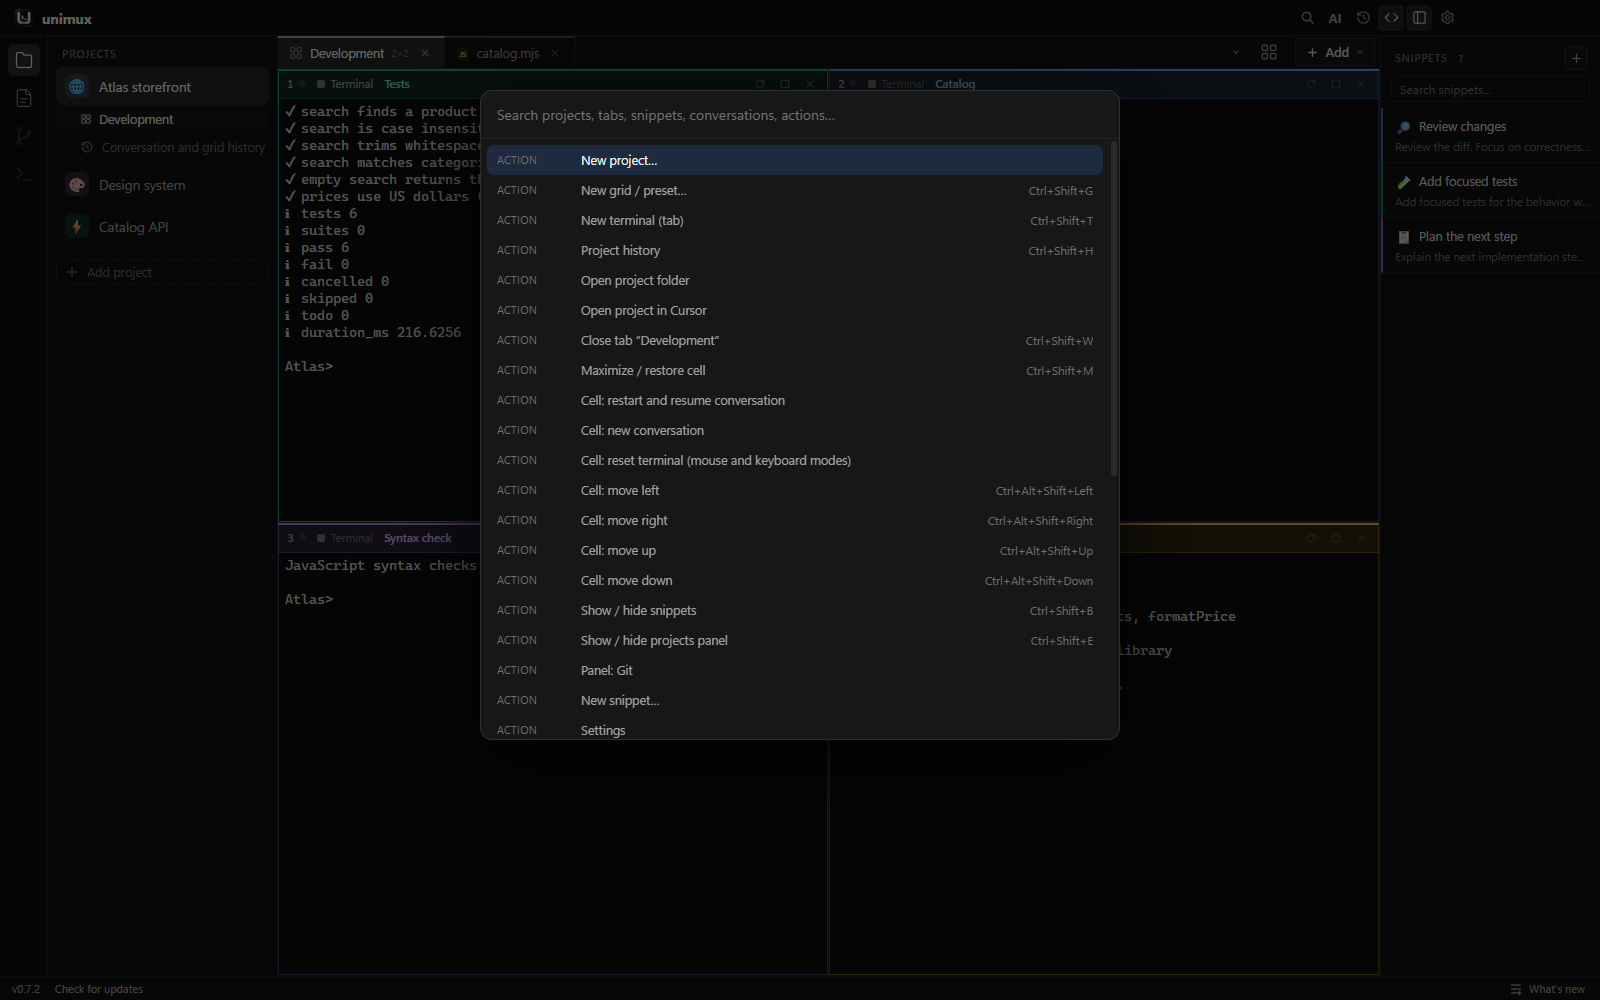
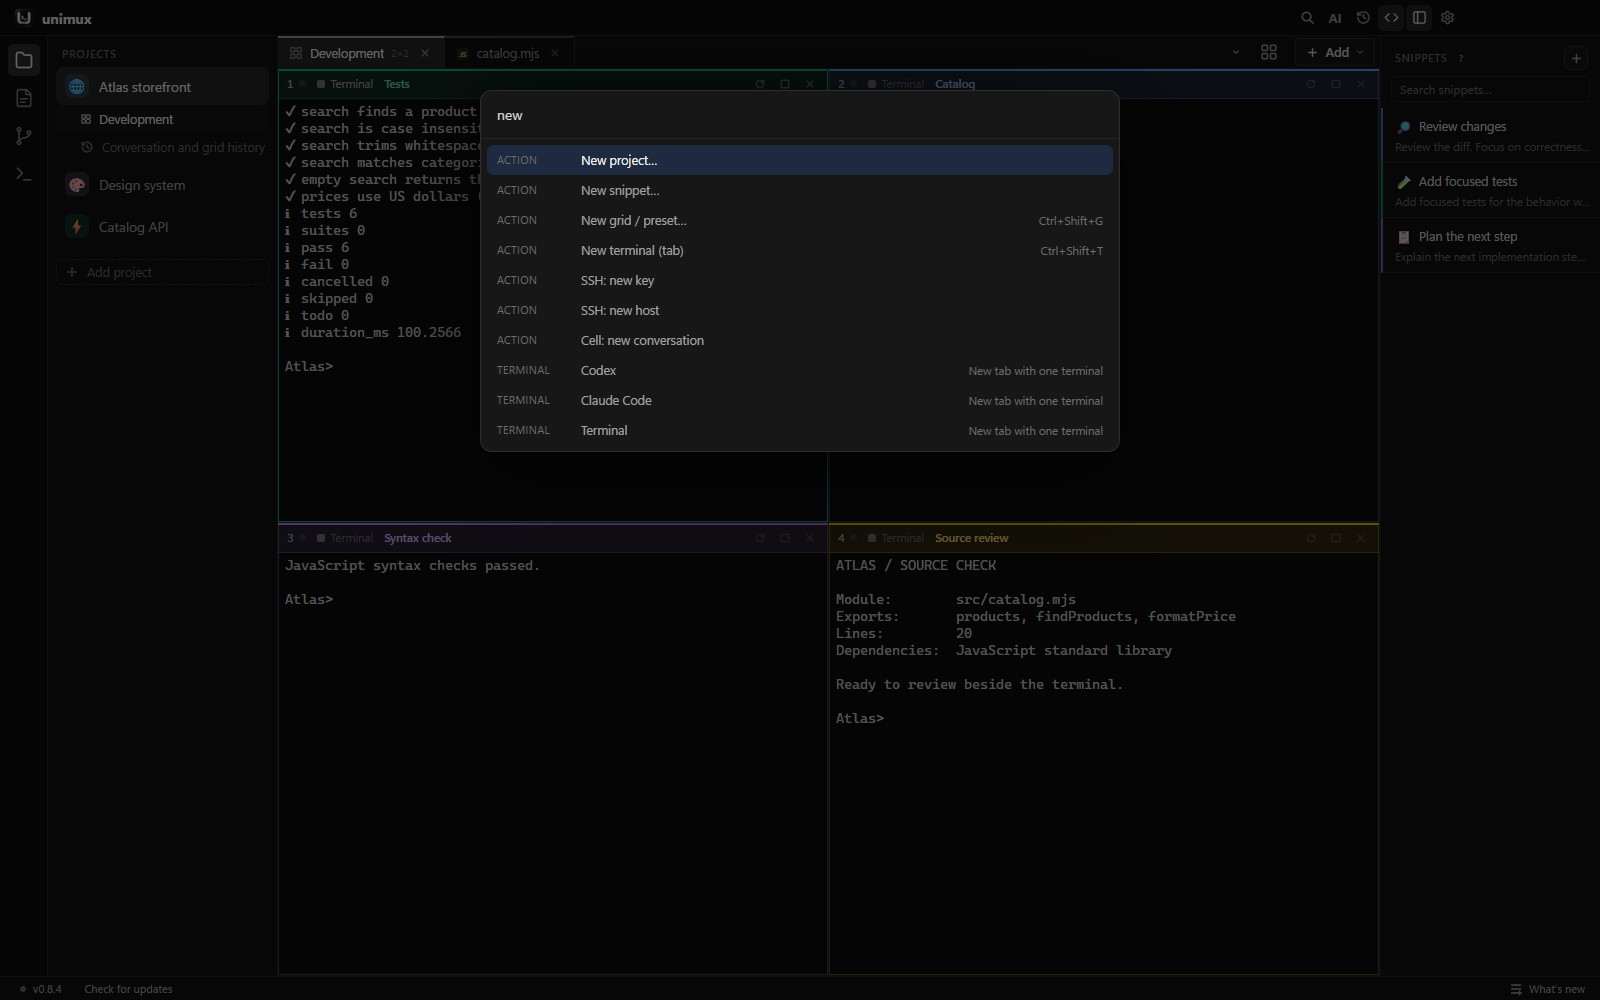
docs: capture git and ssh screenshots from scratch demo data and regenerate all README images

diff --git a/docs/screenshots/README.md b/docs/screenshots/README.md
@@ -1,6 +1,6 @@
 # README screenshots
 
-The PNGs in this folder come from the real Electron application in English. The capture script creates a temporary **Atlas storefront** project, three project entries, reusable snippets and a review-team preset. Four real shell terminals run JavaScript tests, display the demo catalog and inspect its source. No AI models are invoked and no installed app data is loaded.
+The PNGs in this folder come from the real Electron application in English. The capture script creates a temporary **Atlas storefront** project, three project entries, reusable snippets and a review-team preset. Four real shell terminals run JavaScript tests, display the demo catalog and inspect its source. The project is also a scratch git repository (a few commits, one merged branch, staged, modified and untracked files), and three demo hosts of the group "production" point at the local test SSH server `scripts/ssh-test-server.mjs` on 127.0.0.1. No AI models are invoked, no real host is contacted and no installed app data is loaded.
 
 From the repository root, with Node.js 22 or newer and dependencies installed:
 
@@ -9,15 +9,17 @@ npm run build
 node scripts/capture-readme.mjs
 ```
 
-An Electron desktop environment is required. The script uses `MC_DATA_DIR` for isolated state, `MC_OFFSCREEN=1` to keep its window away from the desktop, and a dynamically allocated `MC_DEBUG_PORT` to control and capture the renderer over CDP. It does not modify source files or an installed app's settings. The four shell cells use cmd on Windows and bash on macOS.
+An Electron desktop environment is required. The script uses `MC_DATA_DIR` for isolated state, `MC_OFFSCREEN=1` to keep its window away from the desktop, and a dynamically allocated `MC_DEBUG_PORT` to control and capture the renderer over CDP. It does not modify source files or an installed app's settings. The shell cells use cmd on Windows and bash on macOS.
 
 | Image | View |
 | --- | --- |
 | `main.png` | Projects, a 2×2 terminal grid, real demo output and snippets |
 | `editor.png` | File tree and integrated source editor |
 | `grid-dialog.png` | Review-team preset with profiles, roles and startup prompts |
-| `palette.png` | Command palette with projects, snippets and actions |
+| `palette.png` | Command palette searching for "new" |
 | `project.png` | Project name, color and icon editor |
+| `git.png` | Git panel: staged, modified and untracked files, history graph and a working-tree diff |
+| `ssh.png` | SSH panel with grouped hosts beside a grid of three connected SSH sessions |
 
 To review a capture before replacing the tracked images, pass an output directory:
 
@@ -25,9 +27,9 @@ To review a capture before replacing the tracked images, pass an output director
 node scripts/capture-readme.mjs ./capture-review
 ```
 
-The script logs its temporary demo directory and closes its own Electron instance when finished. Temporary data is kept for inspection. CDP sets the actual renderer viewport to 1600×1000; platform fonts and test timings may vary. Do not run while another process is rebuilding `out/`. Inspect all four images before committing them.
+The script logs its temporary demo directory and closes its own Electron instance when finished. Temporary data is kept for inspection. CDP sets the actual renderer viewport to 1600×1000; platform fonts and test timings may vary. Do not run while another process is rebuilding `out/`. Inspect every image before committing it.
 
-The app may display the project folder path. If your system temp path includes your personal name, set `MC_CAPTURE_ROOT` to a generic, writable directory before capturing. For example, in PowerShell:
+The app also gets a scratch home (`USERPROFILE`, `HOME`, `APPDATA`, `LOCALAPPDATA`), so it never reads your profile, `~/.ssh` or the data of an installed app. The app may display the project folder path (the project editor does). If your system temp path includes your personal name, set `MC_CAPTURE_ROOT` to a generic, writable directory before capturing. For example, in PowerShell:
 
 ```powershell
 $env:MC_CAPTURE_ROOT = 'D:\Temp\unimux-demo'
